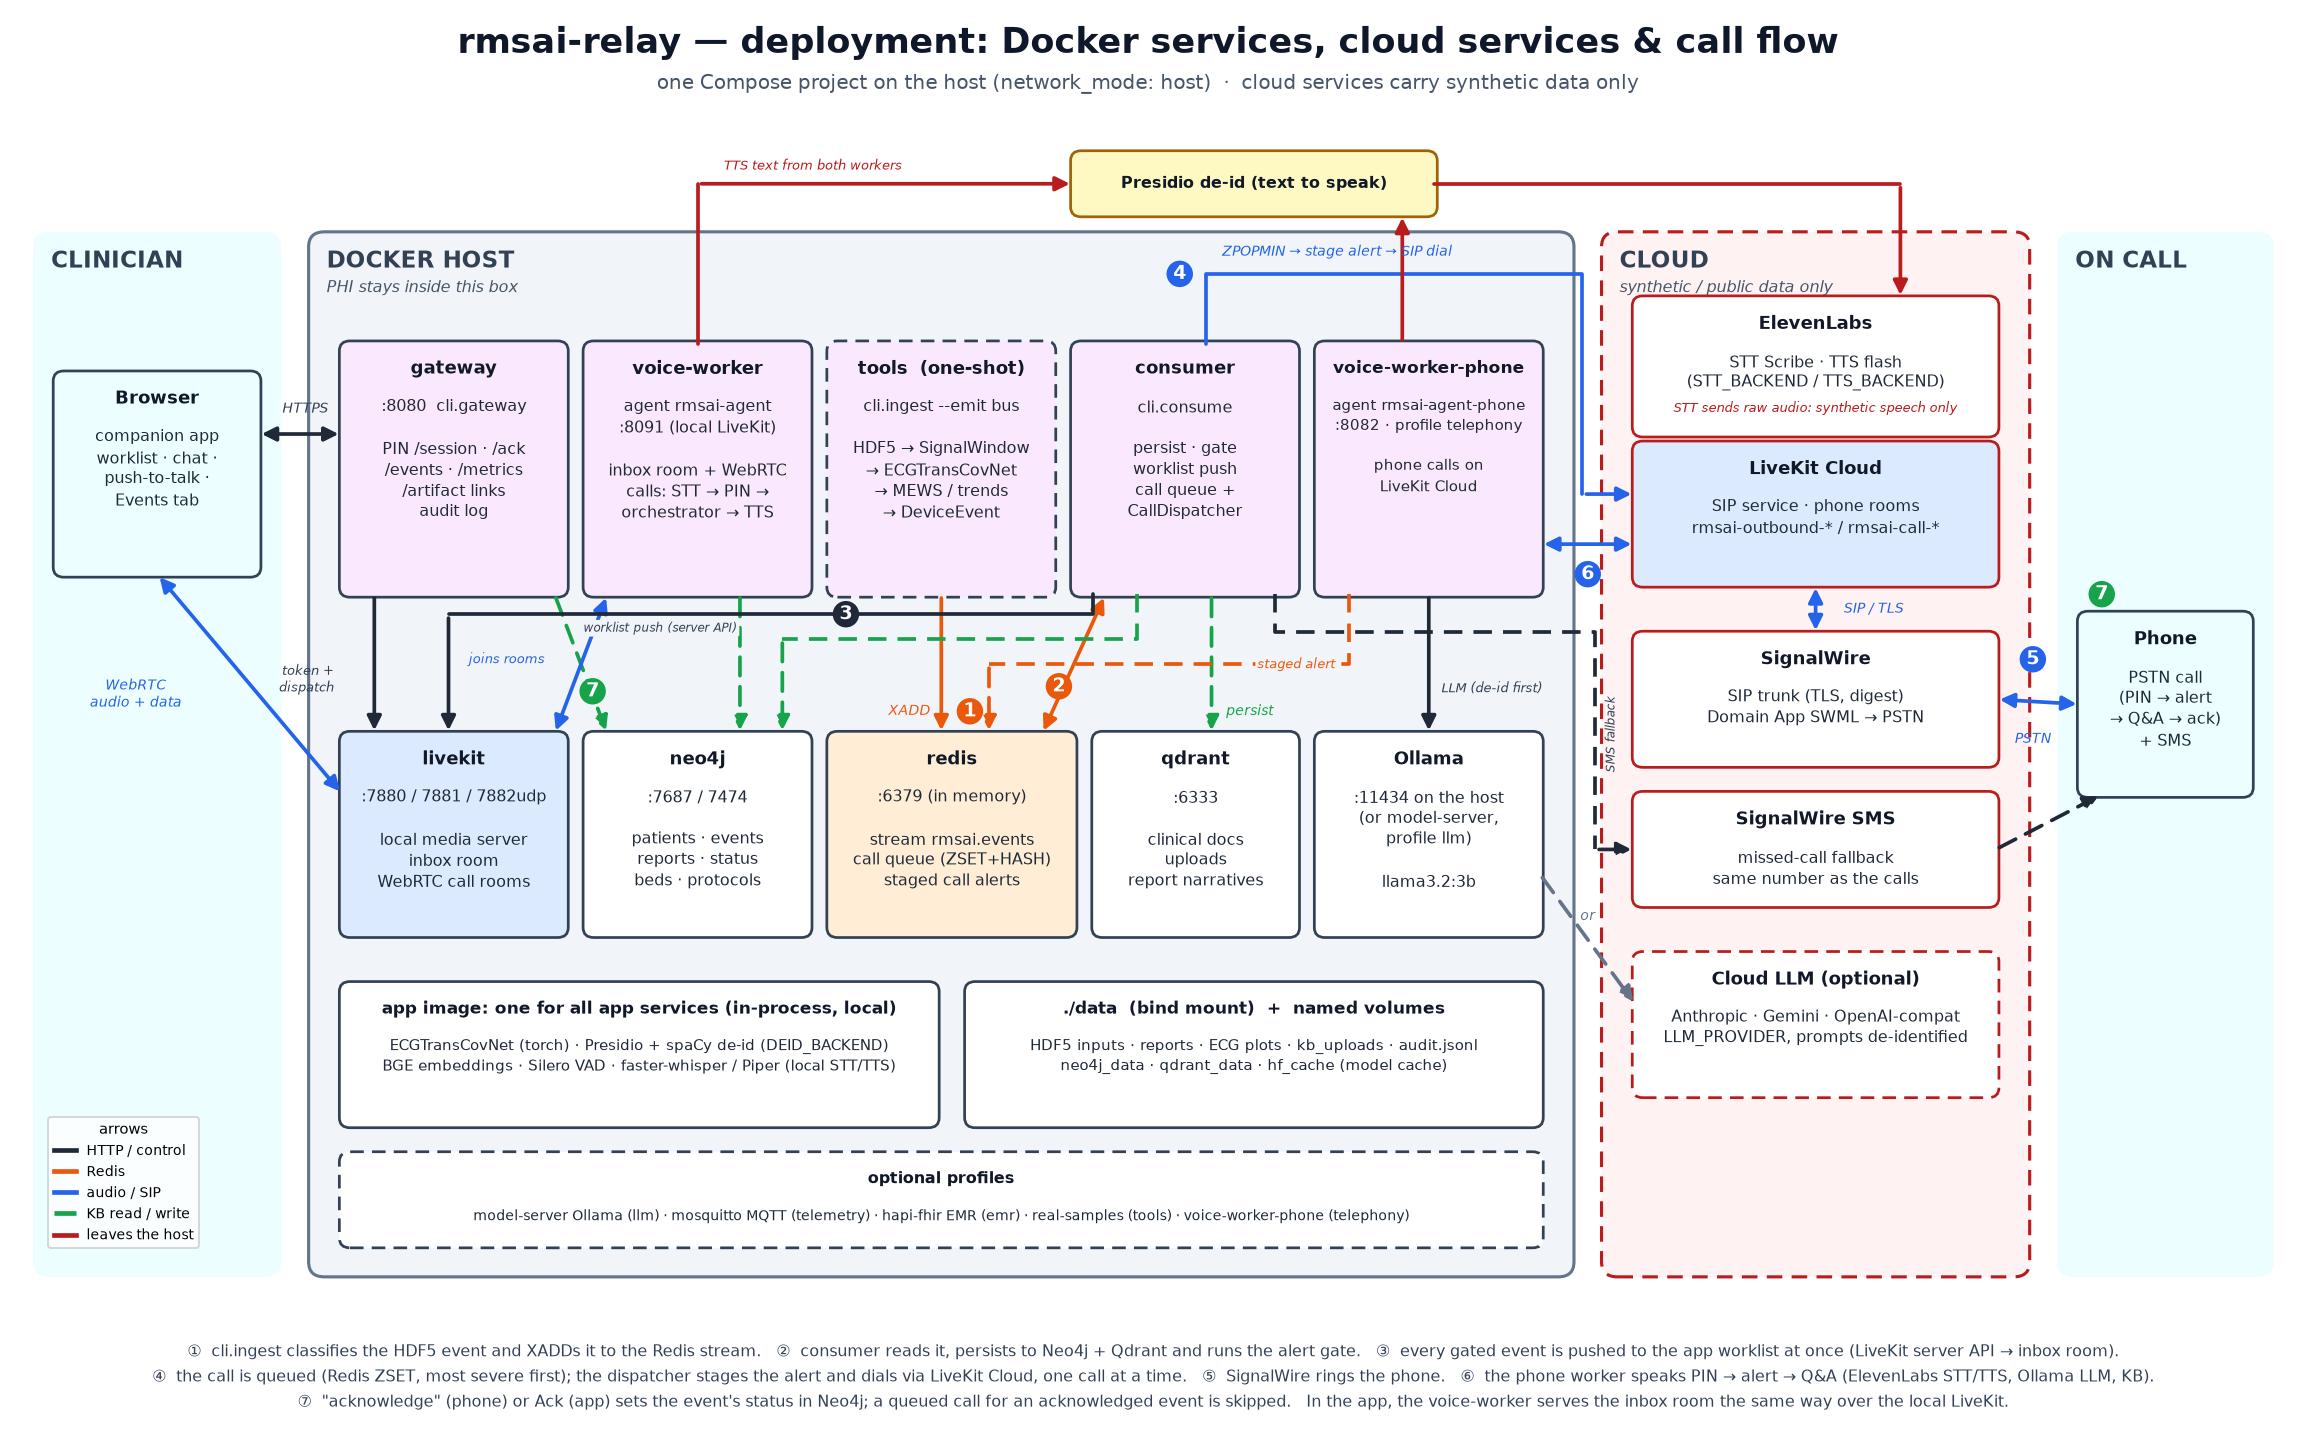
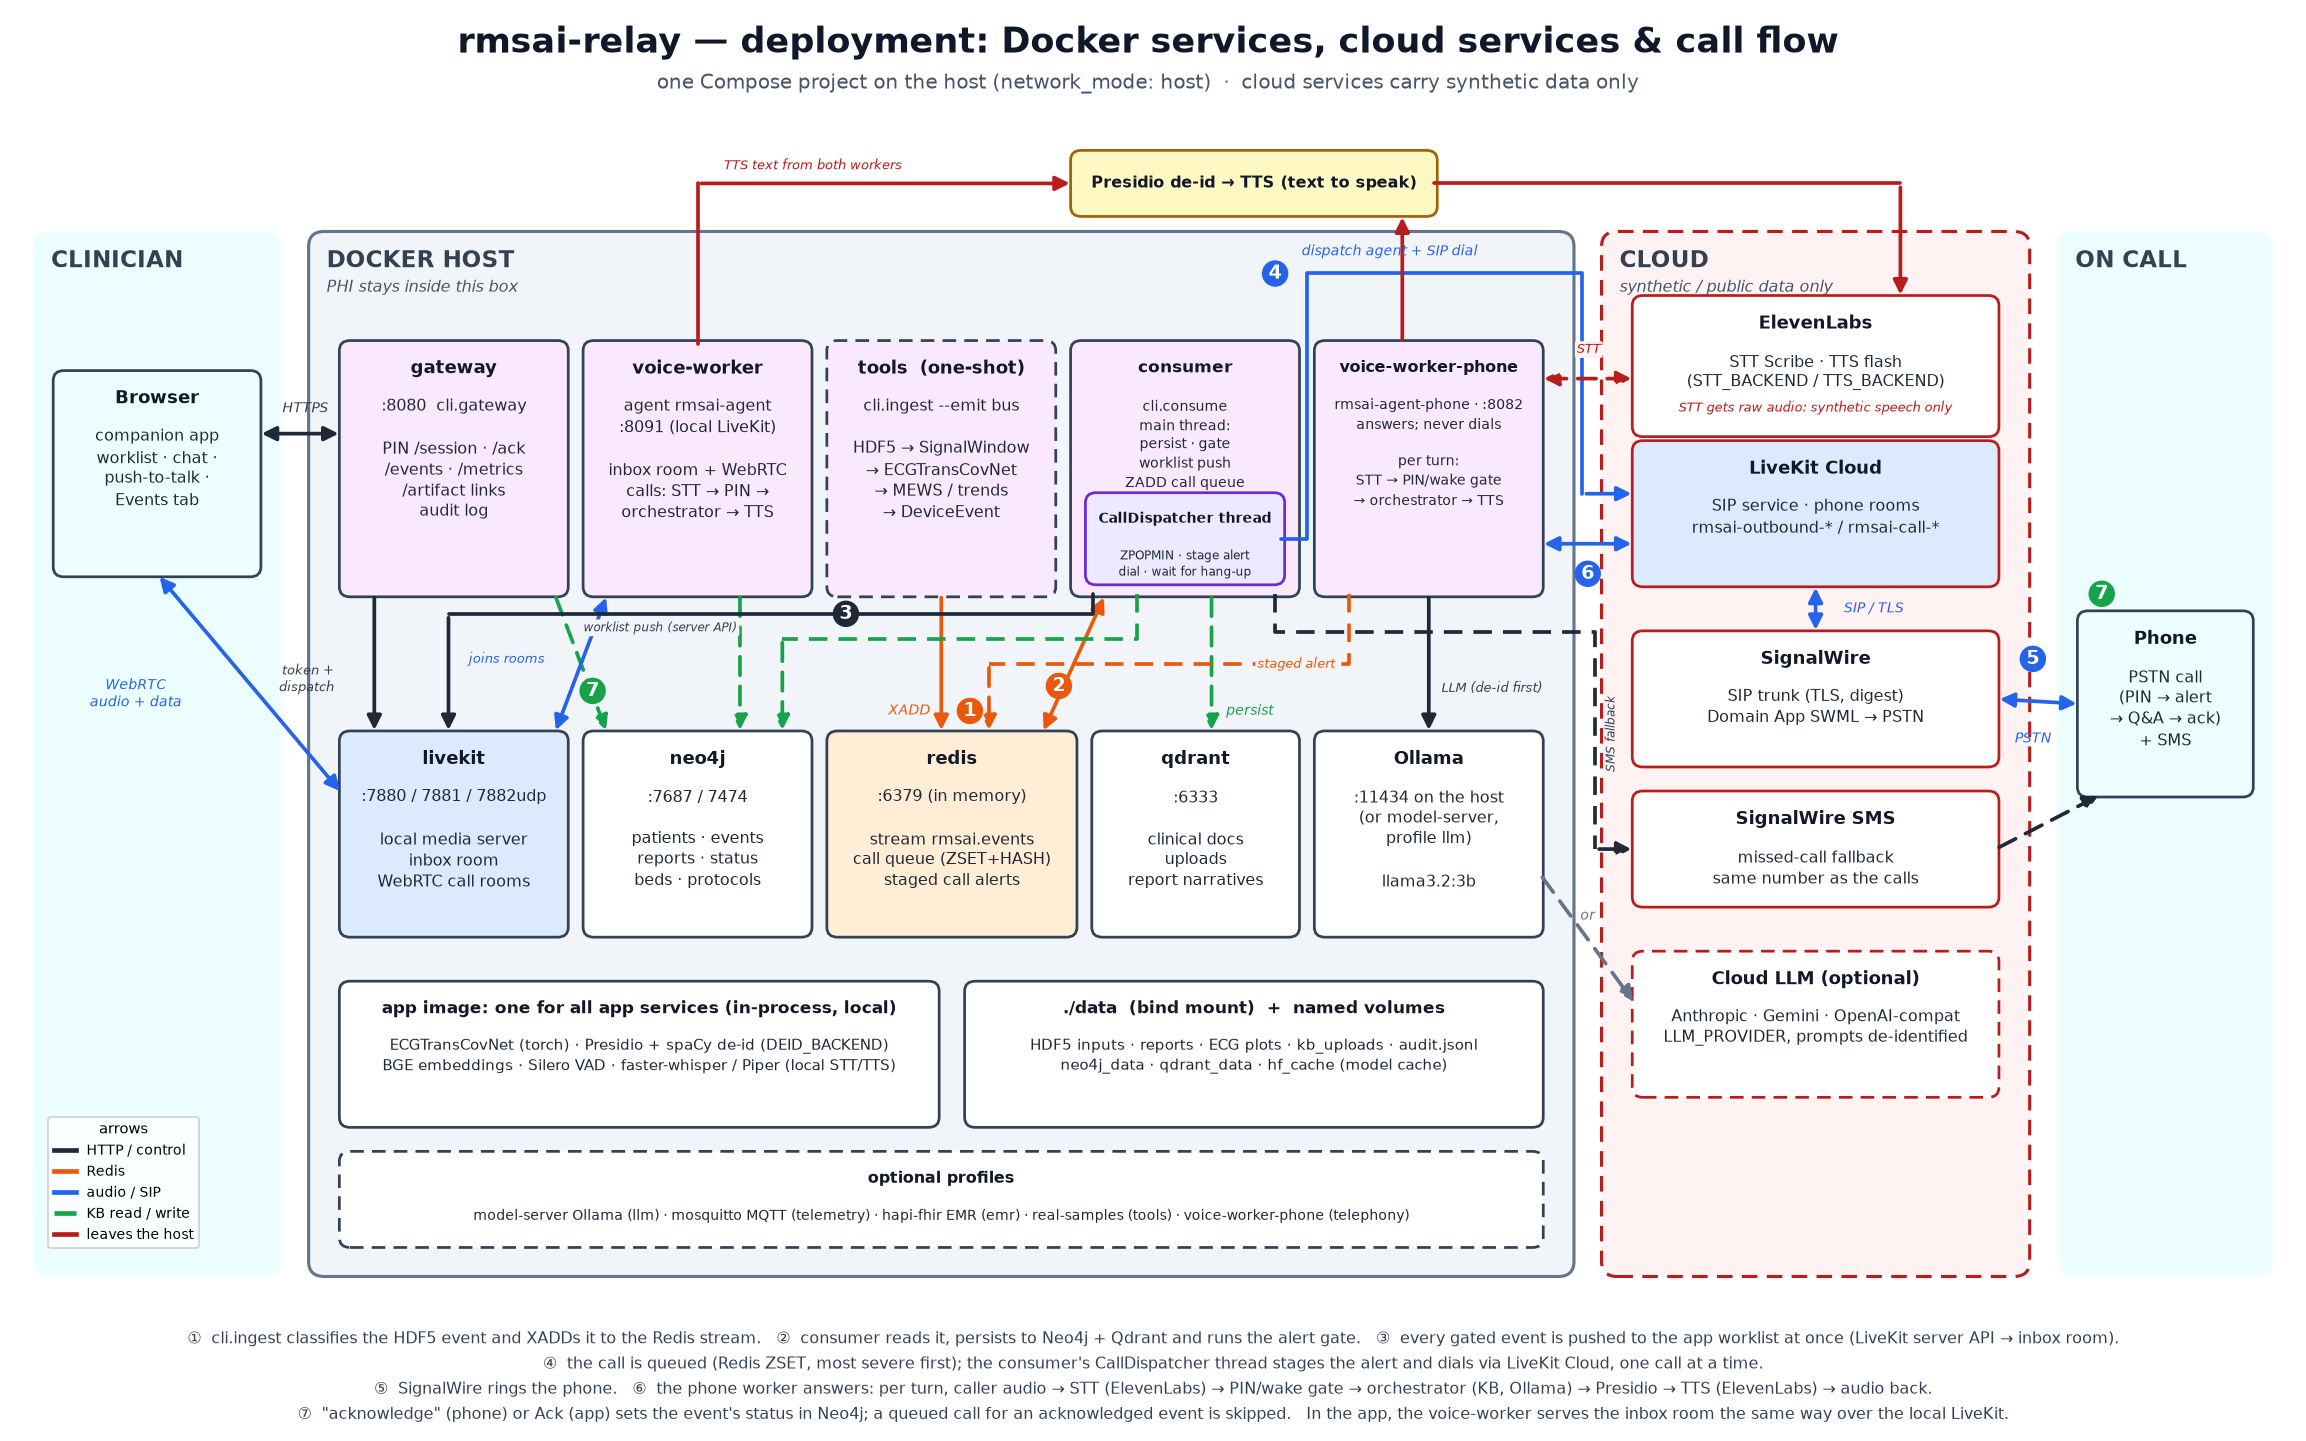
Deployment diagram: the dispatcher is a consumer thread; STT/TTS in the phone worker
The CallDispatcher is drawn as a thread inside the consumer (step 4 leaves from it), the
phone worker shows its per-turn STT → gate → orchestrator → TTS loop and that it answers but
never dials, and a separate STT arrow carries the caller's raw audio to ElevenLabs.

diff --git a/docs/make_deploy_diagram.py b/docs/make_deploy_diagram.py
@@ -110,8 +110,11 @@ phone = box(195, 56, 16, 18, "Phone", "PSTN call\n(PIN → alert\n→ Q&A → ac
 gw = box(31, 76, 21, 25, "gateway", ":8080  cli.gateway\n\nPIN /session · /ack\n/events · /metrics\n/artifact links\naudit log", C_APP)
 vw = box(54, 76, 21, 25, "voice-worker", "agent rmsai-agent\n:8091 (local LiveKit)\n\ninbox room + WebRTC\ncalls: STT → PIN →\norchestrator → TTS", C_APP)
 ing = box(77, 76, 21, 25, "tools  (one-shot)", "cli.ingest --emit bus\n\nHDF5 → SignalWindow\n→ ECGTransCovNet\n→ MEWS / trends\n→ DeviceEvent", C_APP, ls=DASH)
-con = box(100, 76, 21, 25, "consumer", "cli.consume\n\npersist · gate\nworklist push\ncall queue +\nCallDispatcher", C_APP)
-vwp = box(123, 76, 21, 25, "voice-worker-phone", "agent rmsai-agent-phone\n:8082 · profile telephony\n\nphone calls on\nLiveKit Cloud", C_APP, fs=7.6)
+con = box(100, 76, 21, 25, "consumer", "cli.consume\nmain thread:\npersist · gate\nworklist push\nZADD call queue", C_APP, fs=7.4)
+# the dispatcher is a thread inside the consumer process, not the voice worker
+disp = box(101.4, 77.2, 18.2, 8.6, "CallDispatcher thread",
+           "ZPOPMIN · stage alert\ndial · wait for hang-up", fc="#ede9fe", ec="#6d28d9", fs=6.2)
+vwp = box(123, 76, 21, 25, "voice-worker-phone", "rmsai-agent-phone · :8082\nanswers; never dials\n\nper turn:\nSTT → PIN/wake gate\n→ orchestrator → TTS", C_APP, fs=7.2)
 
 # --- backing stores ----------------------------------------------------------------------------
 lk = box(31, 42, 21, 20, "livekit", ":7880 / 7881 / 7882udp\n\nlocal media server\ninbox room\nWebRTC call rooms", C_LK)
@@ -175,9 +178,10 @@ step(78.5, 74, "3")
 label(61, 72.6, "worklist push (server API)", fs=6.4, bg=C_HOST)
 
 # ④ dispatcher: queue in redis, stage alert, then dispatch + dial on LiveKit Cloud
-path([(112.5, con["t"]), (112.5, 108), (148, 108), (148, 86), (lkc["x"], 86)], color=VOICE)
-step(110, 108, "4", VOICE)
-label(114, 110.2, "ZPOPMIN → stage alert → SIP dial",
+path([(disp["r"], disp["cy"]), (122, disp["cy"]), (122, 108), (148, 108), (148, 86),
+      (lkc["x"], 86)], color=VOICE)
+step(119, 108, "4", VOICE)
+label(121.5, 110.2, "dispatch agent + SIP dial",
       color=VOICE, fs=7, ha="left")
 
 # ⑤ LiveKit Cloud ↔ SignalWire ↔ phone
@@ -196,12 +200,15 @@ path([(126, vwp["y"]), (126, 69), (92, 69), (92, red["t"])], color=BUS, style=DA
 label(121, 69, "staged alert", color=BUS, fs=6.6, bg=C_HOST)
 
 # both workers → ElevenLabs through the Presidio guard (TTS text); STT sends raw audio
-guard = box(100, 114, 34, 6, "Presidio de-id (text to speak)", fc=C_GUARD, ec="#a16207", fs=6.8)
+guard = box(100, 114, 34, 6, "Presidio de-id → TTS (text to speak)", fc=C_GUARD, ec="#a16207", fs=6.8)
 path([(64.5, vw["t"]), (64.5, 117), (guard["x"], 117)], color=CLOUD)
 arrow((131, vwp["t"]), (131, guard["y"]), color=CLOUD)
 path([(guard["r"], 117), (178, 117), (178, el["t"])], color=CLOUD)
 label(67, 118.8, "TTS text from both workers", color=CLOUD, fs=6.8, ha="left")
-label(170, 94.6, "STT sends raw audio: synthetic speech only", color=CLOUD, fs=6.6)
+# STT: the phone worker sends the caller's raw audio (no de-id possible) and gets text back
+arrow((vwp["r"], 97.5), (el["x"], 97.5), color=CLOUD, style=DASH, both=True)
+label(148.6, 100.4, "STT", color=CLOUD, fs=6.6, bg=C_CLOUD)
+label(170, 94.6, "STT gets raw audio: synthetic speech only", color=CLOUD, fs=6.6)
 
 # SMS fallback; optional cloud LLM instead of Ollama
 path([(119, con["y"]), (119, 72.2), (149.2, 72.2), (149.2, 50.5), (tw["x"], 50.5)], color=DATA, style=DASH)
@@ -219,9 +226,9 @@ caption = (
     "①  cli.ingest classifies the HDF5 event and XADDs it to the Redis stream.   "
     "②  consumer reads it, persists to Neo4j + Qdrant and runs the alert gate.   "
     "③  every gated event is pushed to the app worklist at once (LiveKit server API → inbox room).\n"
-    "④  the call is queued (Redis ZSET, most severe first); the dispatcher stages the alert and dials via LiveKit Cloud, one call at a time.   "
+    "④  the call is queued (Redis ZSET, most severe first); the consumer's CallDispatcher thread stages the alert and dials via LiveKit Cloud, one call at a time.\n"
     "⑤  SignalWire rings the phone.   "
-    "⑥  the phone worker speaks PIN → alert → Q&A (ElevenLabs STT/TTS, Ollama LLM, KB).\n"
+    "⑥  the phone worker answers: per turn, caller audio → STT (ElevenLabs) → PIN/wake gate → orchestrator (KB, Ollama) → Presidio → TTS (ElevenLabs) → audio back.\n"
     "⑦  \"acknowledge\" (phone) or Ack (app) sets the event's status in Neo4j; a queued call for an acknowledged event is skipped.   "
     "In the app, the voice-worker serves the inbox room the same way over the local LiveKit."
 )
